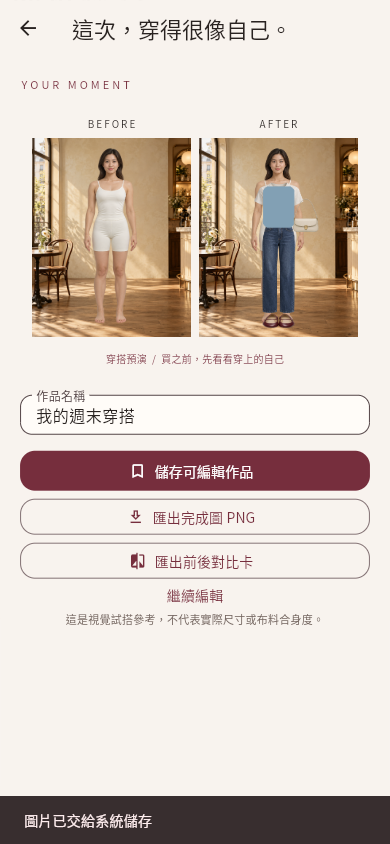
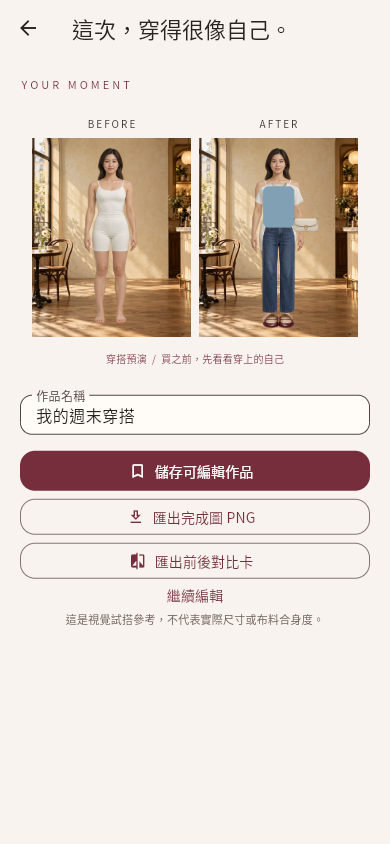
fix: preserve resized outfits when snapping and reopening

Changed region(s): [[0.0, 0.9242, 1.0, 1.0], [0.1231, 0.4621, 0.1538, 0.4929]]

diff --git a/test/widgets_test.dart b/test/widgets_test.dart
@@ -196,6 +196,44 @@ void main() {
     await tester.pumpAndSettle();
     await drain(tester, editor.flush());
   });
+  testWidgets('pinching an attached shirt keeps its size after snapping', (
+    tester,
+  ) async {
+    addTearDown(() => cleanup(tester));
+    editor.add(editor.item('tee_white'));
+    final original = editor.doc.layers.single.copy();
+    await tester.pumpWidget(OutfitApp(editor: editor));
+    await tester.pumpAndSettle();
+    final target = find.byWidgetPredicate(
+      (w) => w is GestureLayer && w.layer.itemId == 'tee_white',
+    );
+    final center = tester.getCenter(target);
+    final first = await tester.startGesture(
+      center - const Offset(14, 0),
+      pointer: 1,
+    );
+    final second = await tester.startGesture(
+      center + const Offset(14, 0),
+      pointer: 2,
+    );
+    await first.moveTo(center - const Offset(30, 0));
+    await second.moveTo(center + const Offset(30, 0));
+    await tester.pump();
+    await first.moveTo(center - const Offset(42, 0));
+    await second.moveTo(center + const Offset(42, 0));
+    await tester.pump();
+    expect(editor.doc.layers.single.scale, greaterThan(original.scale));
+    await first.up();
+    await second.up();
+    await tester.pumpAndSettle();
+    final resized = editor.doc.layers.single;
+    expect(resized.scale, greaterThan(original.scale));
+    expect(resized.snappedTo, 'shoulderCenter');
+    expect(Offset(resized.x, resized.y), editor.anchor('shoulderCenter'));
+    editor.undo();
+    expect(editor.doc.layers.single.toJson(), original.toJson());
+    await drain(tester, editor.flush());
+  });
   testWidgets('toolbar long press drop creates a free layer on the canvas', (
     tester,
   ) async {

diff --git a/lib/core/controller.dart b/lib/core/controller.dart
@@ -51,8 +51,13 @@ class EditorController extends ChangeNotifier {
       final j = await repo.draft();
       if (j != null) {
         doc = CanvasDocument.fromJson(j);
-        for (final layer in doc.layers.where((l) => l.snappedTo != null)) {
-          snap(layer);
+        // Only migrate documents from before avatar registration was stored.
+        // Current documents must keep the exact scale and width the user saved.
+        final profile = j['bodyParams'];
+        if (profile is Map && !profile.containsKey('appearance')) {
+          for (final layer in doc.layers.where((l) => l.snappedTo != null)) {
+            snap(layer);
+          }
         }
       }
     } catch (_) {
@@ -290,7 +295,11 @@ class EditorController extends ChangeNotifier {
         (l.y - target.dy) * size.height,
       ).distance;
       if (d <= 24) {
-        snap(l);
+        // Reattach position without undoing the user's pinch or width edit.
+        // Explicit "貼回錨點" and body updates still recalculate default sizing.
+        l.x = target.dx;
+        l.y = target.dy;
+        l.snappedTo = a;
       }
     }
     changed();

diff --git a/test/editor_test.dart b/test/editor_test.dart
@@ -295,6 +295,8 @@ void main() {
       await first.initialize();
       first.theme();
       first.doc.layers.last.x = .72;
+      first.doc.layers.first.scale *= 1.2;
+      first.doc.layers.first.widthScale = 1.35;
       await first.saveOutfit();
       final json = first.doc.toJson();
       first.dispose();

diff --git a/README.md b/README.md
@@ -4,7 +4,7 @@
 
 **公開 App：[穿搭預演](https://app.uslinkyou.com/)**。由 main 分支的 GitHub Actions 部署；詳見 [部署設定](docs/GITHUB_PAGES.md)。
 
-**目前已完成真正 Flutter Web 編譯與核心操作驗證。** 靜態分析零問題、41 項 Flutter 測試與 7 項輔助工具測試通過。Chromium 已驗證試玩、主題、體型面板、PNG 匯入、作品儲存／重新載入／重開、完成圖／前後對比卡 PNG 匯出、五場景切換與離線重載／匯入／儲存／匯出。[A01–A20 驗收表](docs/ACCEPTANCE.md) 區分通過與未測項目；iOS／Android 原生去背、實機多指操作與完整 P0 尚未全部驗證。
+**目前已完成真正 Flutter Web 編譯與核心操作驗證。** 靜態分析零問題、42 項 Flutter 測試與 7 項輔助工具測試通過。Chromium 已驗證試玩、主題、體型面板、PNG 匯入、作品儲存／重新載入／重開、完成圖／前後對比卡 PNG 匯出、五場景切換與離線重載／匯入／儲存／匯出。[A01–A20 驗收表](docs/ACCEPTANCE.md) 區分通過與未測項目；iOS／Android 原生去背、實機多指操作與完整 P0 尚未全部驗證。
 
 ## 啟動
 
@@ -60,7 +60,7 @@ flutter --suppress-analytics run -d <裝置ID>
 - 草稿自動儲存與重試、可編輯作品、副本、重新命名、刪除、前後圖卡與 PNG 匯出。
 - 離線 worker、資源引用清理、資料清除與本機隱私。
 
-`lib/core/` 為模型／控制器／解碼；`lib/data/` 為 Repository；`lib/features/` 為畫布、修圖與頁面；`lib/painting/` 為原創繪製；`native/` 為平台去背。24 個模型／持久化、13 個編輯器 widget 與 4 個修圖介面測試，包含三種尺寸、1.5 倍字體、實際拖曳／長按拖放、檔案關閉重開、解碼與透明像素還原。
+`lib/core/` 為模型／控制器／解碼；`lib/data/` 為 Repository；`lib/features/` 為畫布、修圖與頁面；`lib/painting/` 為原創繪製；`native/` 為平台去背。24 個模型／持久化、14 個編輯器 widget 與 4 個修圖介面測試，包含三種尺寸、1.5 倍字體、實際拖曳／長按拖放、檔案關閉重開、解碼與透明像素還原。
 
 使用 Sembast 統一 IndexedDB 與原生儲存，圖片以 blob asset ID 引用；文件有 schemaVersion，依賴已有真正的 pubspec.lock。衣櫥刪除採封存，清理只移除草稿、作品、衣櫥均無引用的 blob。圖片與身材不主動上傳。Web 資料依 origin 隔離，清瀏覽器資料或解除安裝會影響作品，PNG 匯出不是可編輯備份。
 

diff --git a/docs/ACCEPTANCE.md b/docs/ACCEPTANCE.md
@@ -13,7 +13,7 @@
 | 命令／檢查 | 結果 |
 |---|---|
 | flutter --suppress-analytics analyze | 通過，No issues found |
-| flutter --suppress-analytics test --reporter expanded | 41 項通過：24 模型／持久化、13 編輯器 widget、4 修圖介面 |
+| flutter --suppress-analytics test --reporter expanded | 42 項通過：24 模型／持久化、14 編輯器 widget、4 修圖介面 |
 | flutter --suppress-analytics build web --release --no-web-resources-cdn | 通過；JavaScript release 與 Wasm dry run 成功，未做 Wasm runtime 驗收 |
 | python3 tool/generate_offline_worker.py | 成功，46 個同來源資源 |
 | python3 -m unittest discover -s tool -p test_tooling.py -v | 3 個輔助腳本測試通過 |
@@ -78,3 +78,5 @@
 追加結果：browser_acceptance.mjs 已通過三種外觀、作品改名／複製另存／刪除取消／確認刪除／重開原作，以及清除資料後重新啟動與空作品清單。新增 12-avatar-*.png、13-project-copy.png、14-cleared-projects.png 實際截圖。browser_smoke.mjs 的跨來源請求與資源載入檢查均通過。
 
 41 項測試新增自訂圖片由紅切換為藍的實際像素檢查，確保替換時不讀取已釋放的舊圖片。文字輸入與操作以 Flutter 語意狀態為準，儲存期間的停用按鈕需等到重新啟用，不能以送出鍵盤事件視為完成操作。
+
+縮放追加驗收：使用雙指在吸附錨點附近連續放大，放手後保留尺寸、仍貼齊錨點且一次 undo 還原。實際檔案資料庫關閉／重開亦驗證非預設縮放與寬度完全保留；只針對沒有 appearance 欄位的舊文件做初始座標遷移，不在每次啟動重設尺寸。本輪共 42 項 Flutter 測試（24 模型／資料、14 編輯器、4 修圖）。
